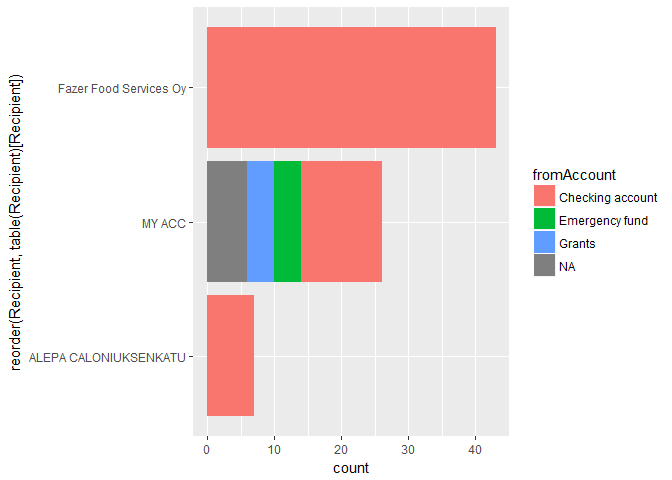
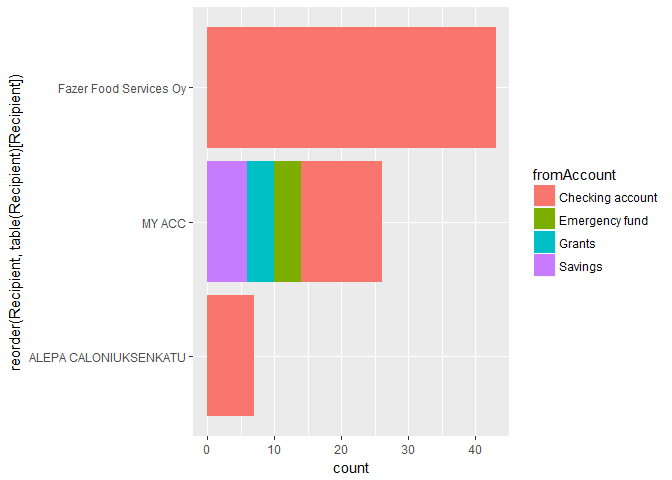
Add files via upload

Changed region(s): [[0.2812, 0.3125, 0.4688, 0.5938], [0.7812, 0.4375, 0.9062, 0.5938]]

diff --git a/README.md b/README.md
@@ -1,6 +1,6 @@
 # Nordea bank transactions analysis
 Tommi Pajala  
-7.2.2017  
+8.2.2017  
 This document shows you how to analyze your Nordea bank transaction data, by categorizing transactions based on the recipient, and then drawing summarizing visualizations on your income/expenses patterns.
 
 ##Requirements
@@ -11,7 +11,7 @@ This document shows you how to analyze your Nordea bank transaction data, by cat
 
 Download the transaction files from Nordea. You have to log in to your banking interface, go to "Accounts" ("Tilit"), select and account and go to "Transactions" ("Tapahtumaluettelo"). There, you can select the time period you want, for example the whole 2016 year. Then just download the files for all accounts you want to analyze (you can also exclude accounts later in the analysis). Save all the .txt files in a folder called "data", so that "data" is a subfolder to where this script is located. So let's say this script is in a folder called "Bank_analysis", then store the .txt files in "Bank_analysis/data".
 
-The examples below plot some figures from the supplied example data. To run the analysis in your Rstudio console, press the button that says "Knit" and looks like this:
+The examples below plot some figures from the supplied example data. To run the analysis in your Rstudio console, load the finance_analysis.Rmd file and the "data" folder. Then just open the .Rmd in Rstudio and press the button that says "Knit" and looks like this:
 ![The Knit button.](knit_button.png)
 
 ##Define used Nordea data
@@ -71,7 +71,7 @@ Now, because it's quite hard to remember account numbers, you can save more desc
 
 ```r
 #define the account numbers here, so names can be assigned
-account_numbers <- c("FI061350","FI911309","FI121771","FI471309350")
+account_numbers <- c("FI061350","FI911309","FI121771","FI471309")
 account_names <-c("Checking account","Emergency fund","Grants","Savings") 
 #with this, you can call account_labeller[account_number] and get the name that you have defined
 account_labeller <- setNames(account_names,account_numbers)
